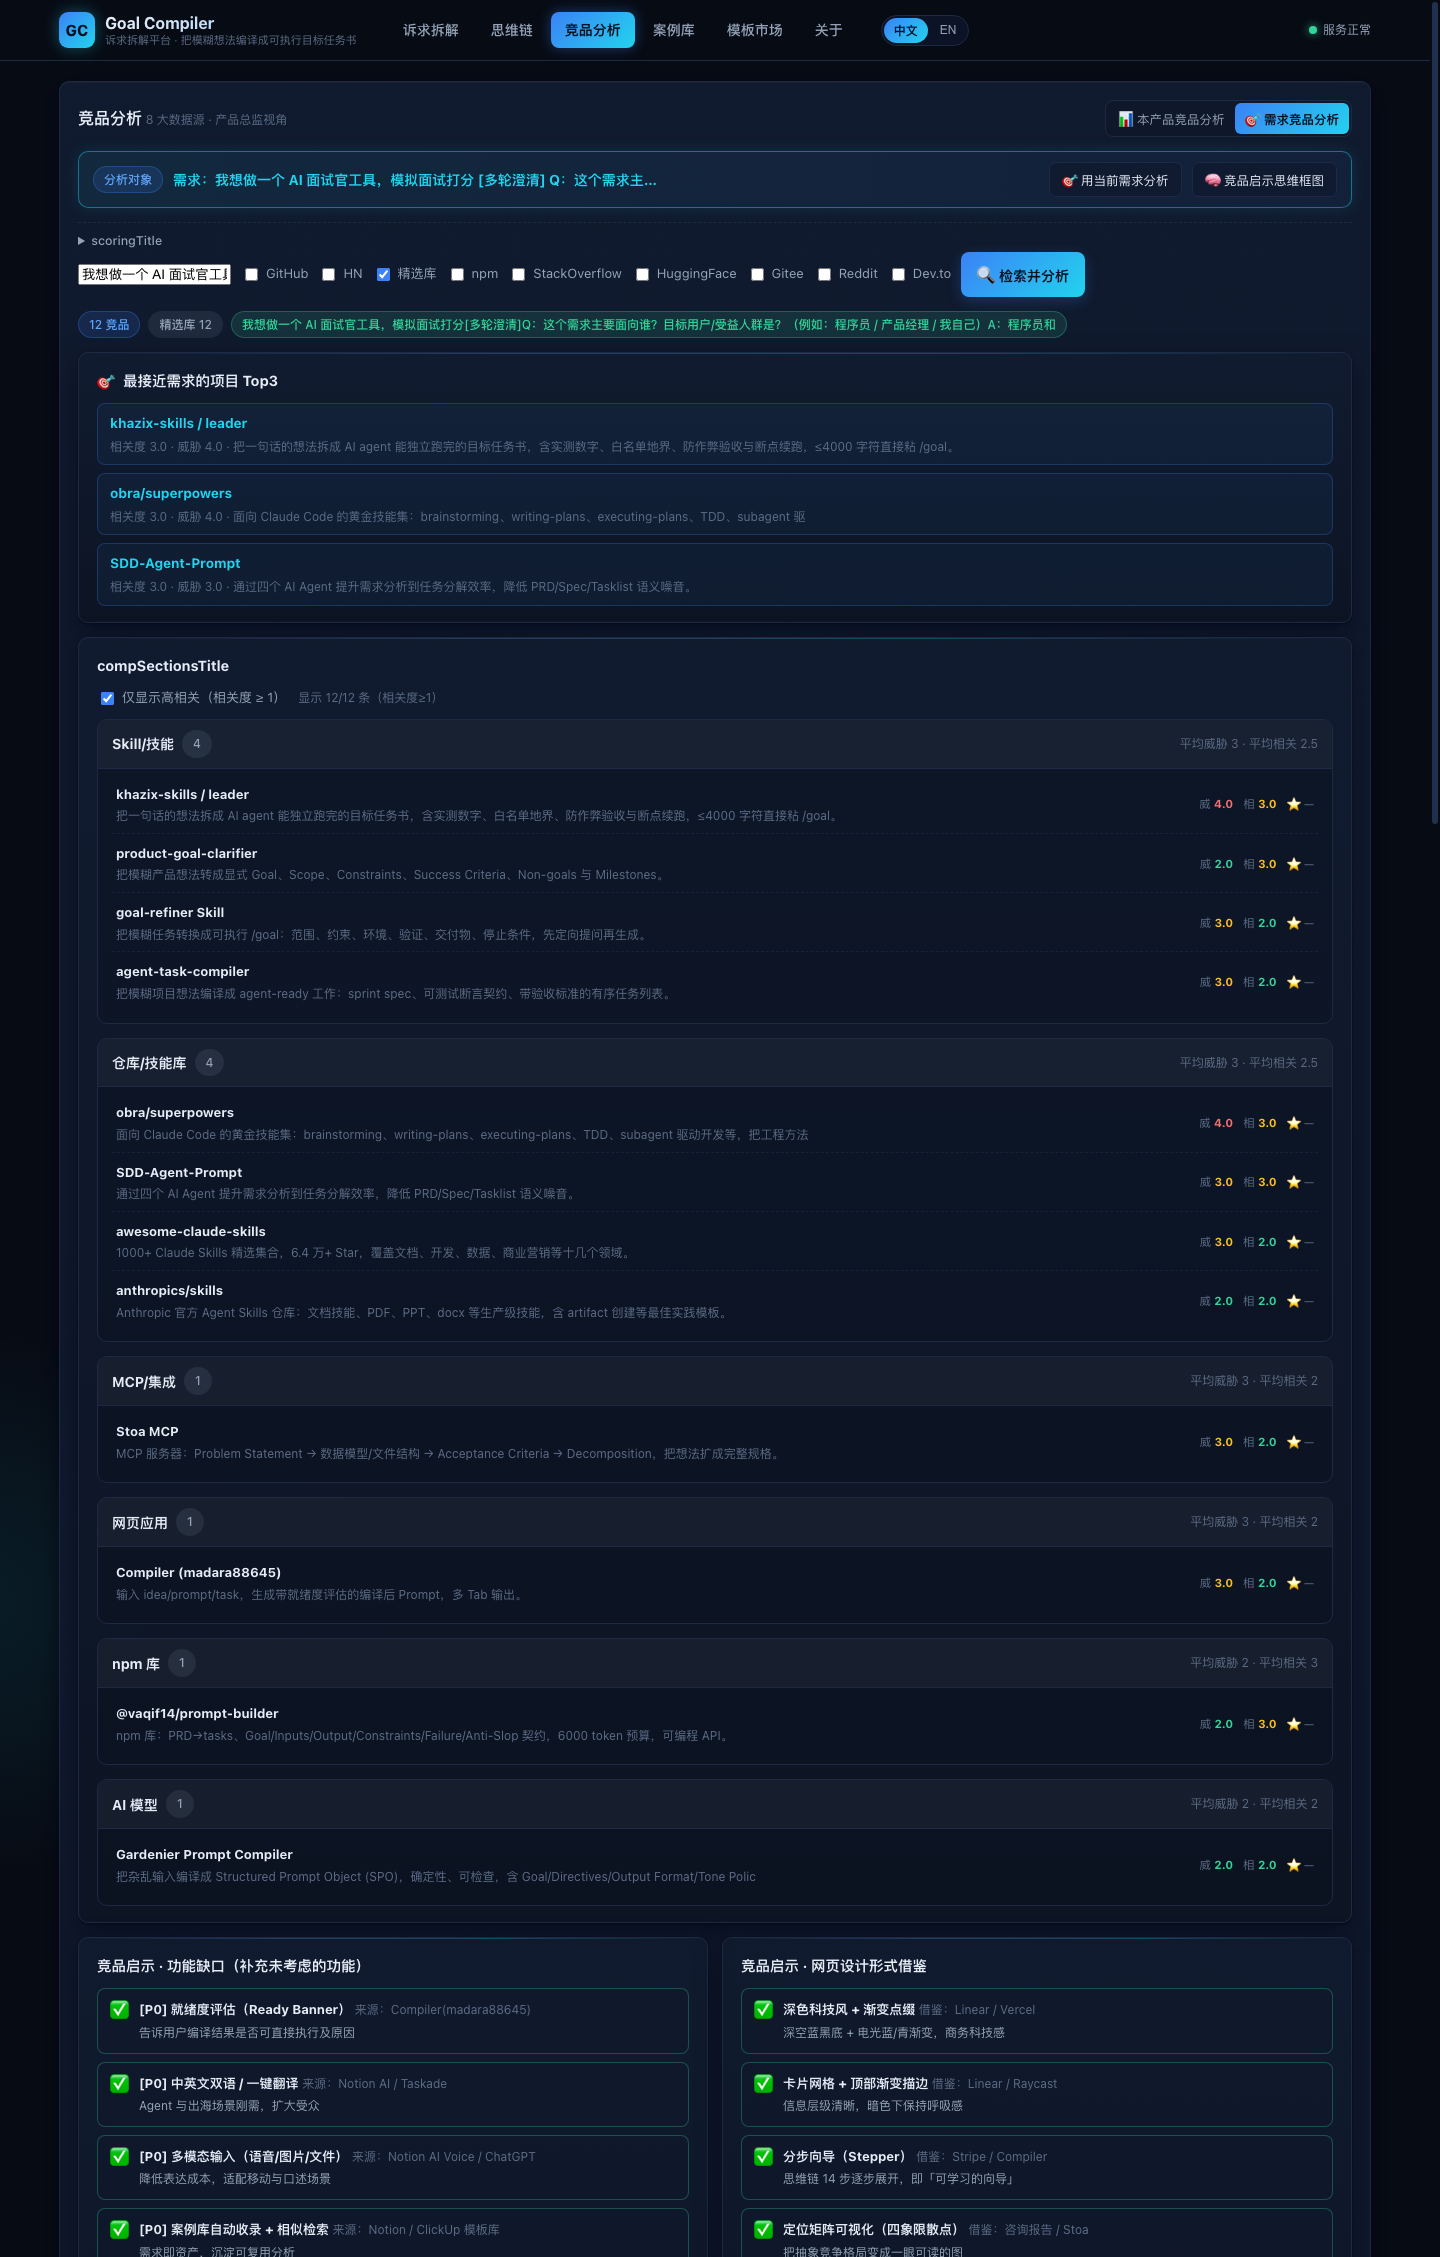
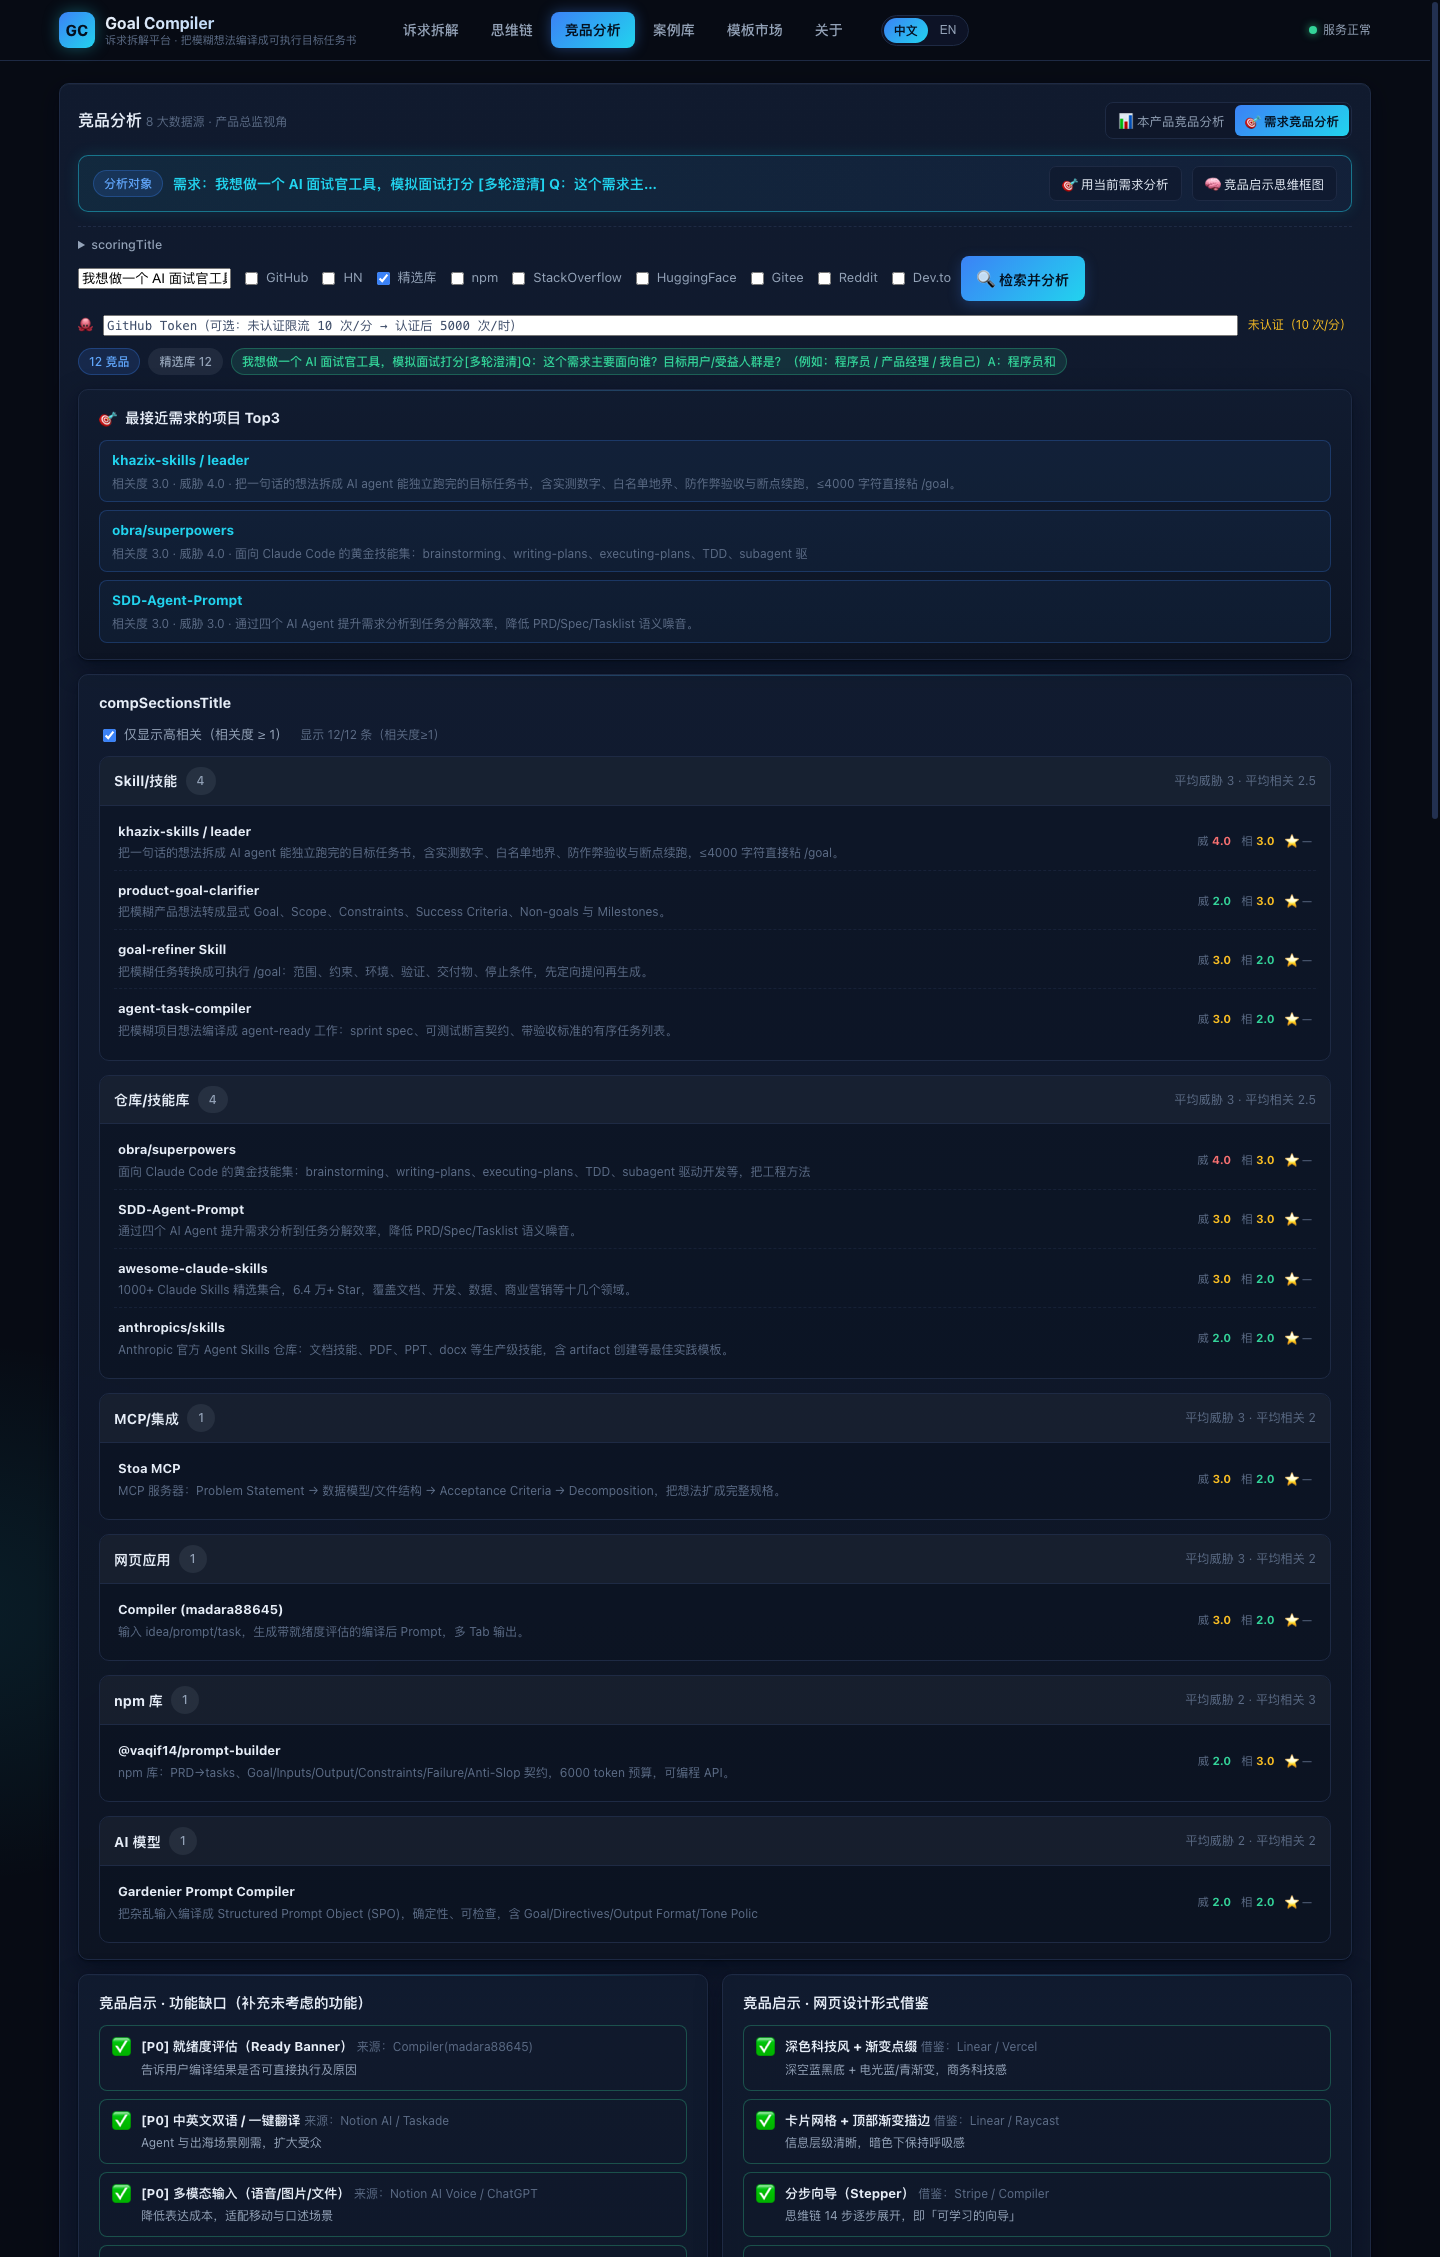
feat(goal-compiler): v8 — 本产品分析与需求分析流程对齐/修复GitHub限流/模板库与AI澄清重设计/UI专家优化
- 🔗 本产品竞品分析新增「关联数据源（9 源）」+「同口径扫描」按钮与结果（按源计数/威胁Top3/GitHub认证状态），与需求分析流程一致
- 🐙 解决 GitHub 未认证限流：可选 GitHub Token（10/分→5000/时）本地保存+透传+状态徽标+限流友好提示
- 📋 模板库改单行横向滚动条；AI 多轮澄清改可折叠卡片默认收起（突出且不拥挤）；推荐模板轻量内联
- 🎨 UI 专家级优化：docs/07-ui-expert-prompt.md（自生成极致设计 Prompt）+ 4px 间距基准/焦点辉光/组件一致性/响应式精修
- 测试：单测+API 21/21、浏览器 E2E 58/58

diff --git a/05-projects/09-goal-compiler/public/index.html b/05-projects/09-goal-compiler/public/index.html
@@ -82,25 +82,26 @@
           <button class="chip" data-quick="1">报销发票小程序</button>
           <button class="chip" data-quick="2">英语口语提升</button>
         </div>
-        <div class="promo-grid">
-          <div class="promo-card" id="templatePanel">
-            <div class="promo-head">📋 <span data-i18n="tplLib">模板库 · 预设诉求</span></div>
-            <div id="templateList" class="chip-row"></div>
-            <div class="rec-templates" id="recTemplates"></div>
+        <div class="tpl-strip" id="templatePanel">
+          <span class="tpl-strip-label">📋 <span data-i18n="tplLib">模板库</span></span>
+          <div id="templateList" class="tpl-scroll"></div>
+        </div>
+        <div class="rec-templates" id="recTemplates"></div>
+        <div class="dialogue-card" id="dialoguePanel">
+          <div class="dialogue-card-head">
+            <span>💬 <span data-i18n="dialogue">AI 多轮澄清式输入</span></span>
+            <button class="btn-ghost" id="dialogueToggle" data-i18n="dialogueToggle">展开</button>
           </div>
-          <div class="promo-card" id="dialoguePanel">
-            <div class="promo-head">💬 <span data-i18n="dialogue">AI 多轮澄清式输入</span></div>
-            <div id="dialogueBox" class="dialogue-box">
-              <div class="chat-area" id="chatArea"></div>
-              <div class="chat-input-row">
-                <input id="chatInput" data-i18n-ph="chatPh" placeholder="回答 AI 的澄清问题…" />
-                <button class="btn-ghost" id="chatSend">↵</button>
-                <button class="btn-ghost" id="chatCompile" data-i18n="chatCompile">✅ 编译</button>
-              </div>
-              <div class="chat-actions">
-                <button class="btn-ghost" id="chatSkip" data-i18n="chatSkip">跳过，直接编译</button>
-                <span class="hint" id="chatStatus"></span>
-              </div>
+          <div id="dialogueBox" class="dialogue-box hidden">
+            <div class="chat-area" id="chatArea"></div>
+            <div class="chat-input-row">
+              <input id="chatInput" data-i18n-ph="chatPh" placeholder="回答 AI 的澄清问题…" />
+              <button class="btn-ghost" id="chatSend">↵</button>
+              <button class="btn-ghost" id="chatCompile" data-i18n="chatCompile">✅ 编译</button>
+            </div>
+            <div class="chat-actions">
+              <button class="btn-ghost" id="chatSkip" data-i18n="chatSkip">跳过，直接编译</button>
+              <span class="hint" id="chatStatus"></span>
             </div>
           </div>
         </div>
@@ -221,6 +222,18 @@
           <div id="scoringRules" class="scoring-grid"></div>
           <div id="quadrantRules" class="quadrant-row"></div>
         </details>
+        <div class="comp-grid-2">
+          <section class="card">
+            <h3 data-i18n="selfSourcesTitle">🔗 关联数据源（与需求分析同口径）</h3>
+            <div id="selfSources" class="source-badges"></div>
+            <div class="toolbar" style="margin-top:10px"><button class="btn-ghost" id="selfScanBtn" data-i18n="selfScan">🔄 扫描本产品相关竞品（9 源）</button></div>
+            <div id="selfScanMetrics" class="result-meta" style="margin-top:10px"></div>
+          </section>
+          <section class="card">
+            <h3 data-i18n="selfScanTitle">📡 同口径分析结果（本产品 vs 竞品）</h3>
+            <div id="selfScanBody"></div>
+          </section>
+        </div>
         <div id="selfCompBody" class="self-report-body"></div>
       </div>
 
@@ -249,6 +262,11 @@
           <label class="ck"><input type="checkbox" id="srcReddit" /> Reddit</label>
           <label class="ck"><input type="checkbox" id="srcDevto" checked /> Dev.to</label>
           <button class="btn-primary" id="compSearchBtn">🔍 <span data-i18n="compSearch">检索并分析</span></button>
+        </div>
+        <div class="gh-token-row">
+          <span class="hint">🐙</span>
+          <input id="ghToken" type="password" placeholder="GitHub Token（可选：未认证限流 10 次/分 → 认证后 5000 次/时）" autocomplete="off" />
+          <span class="hint" id="ghTokenStatus">未认证（10 次/分）</span>
         </div>
         <div id="compLoading" class="hidden loading" data-i18n="compLoading">检索中…（含并发限制与缓存，稍候）</div>
         <div id="compError" class="hidden error-box"></div>

diff --git a/05-projects/09-goal-compiler/public/styles.css b/05-projects/09-goal-compiler/public/styles.css
@@ -459,3 +459,40 @@ kbd { font-family: var(--mono); font-size: 10px; background: rgba(0,0,0,.25); bo
 .expert-note { margin: 0; font-size: 13px; color: var(--muted); line-height: 1.7; }
 .cd-node-method { font-size: 10.5px; color: var(--cyan); margin-top: 3px; opacity: .85; }
 .chain-method { font-size: 10.5px; color: var(--cyan); background: rgba(34,211,238,.1); border: 1px solid rgba(34,211,238,.25); border-radius: 999px; padding: 1px 8px; white-space: nowrap; }
+
+/* ---- v8：GitHub Token / 数据源 / 模板横条 / AI 澄清卡片 / UI 精修 ---- */
+.gh-token-row { display: flex; gap: 10px; align-items: center; margin-bottom: 12px; }
+.gh-token-row input { flex: 1; min-width: 220px; font-family: var(--mono); font-size: 12.5px; }
+.source-badges { display: flex; flex-wrap: wrap; gap: 6px; }
+
+.tpl-strip { display: flex; align-items: center; gap: 10px; margin: 2px 0 6px; }
+.tpl-strip-label { font-size: 12px; font-weight: 700; color: var(--cyan); white-space: nowrap; }
+.tpl-scroll { display: flex; gap: 6px; overflow-x: auto; padding-bottom: 4px; flex: 1; }
+.tpl-scroll::-webkit-scrollbar { height: 6px; }
+.tpl-scroll .chip { white-space: nowrap; flex-shrink: 0; }
+
+.dialogue-card { border: 1px solid var(--border); border-radius: 10px; background: rgba(15,23,42,.5); margin-top: 6px; overflow: hidden; }
+.dialogue-card-head { display: flex; align-items: center; justify-content: space-between; padding: 8px 12px; font-size: 12.5px; font-weight: 700; color: var(--cyan); }
+.dialogue-card-head .btn-ghost { font-size: 12px; padding: 3px 10px; }
+
+/* UI 专家精修：间距节奏 / 层级 / 细节 */
+.container { padding-top: 22px; }
+.panel-head { padding-bottom: 2px; }
+.card { padding: 16px 20px; }
+.btn-primary, .btn-ghost { transition: transform .12s ease, box-shadow .15s ease, background .15s, color .15s, border-color .15s; }
+.btn-primary:active { transform: translateY(1px); }
+.chip { transition: all .15s; }
+.result-meta { align-items: center; }
+.road-step b { letter-spacing: .2px; }
+.cd-lane { box-shadow: inset 0 1px 0 rgba(148,163,184,.05); }
+.comp-section-head { letter-spacing: .2px; }
+textarea, input[type="text"], select { caret-color: var(--cyan); }
+#rawInput { scrollbar-width: thin; }
+.attach-row { margin: 2px 0 4px; }
+.opt-details { margin-top: 4px; }
+.case-grid { gap: 16px; }
+.market-grid { gap: 14px; }
+@media (max-width: 1080px) {
+  .container { padding: 16px 14px 48px; }
+  .topbar-inner { padding: 0 14px; gap: 12px; }
+}

diff --git a/05-projects/09-goal-compiler/docs/07-ui-expert-prompt.md b/05-projects/09-goal-compiler/docs/07-ui-expert-prompt.md
@@ -1,0 +1,53 @@
+# 07 · UI 专家优化：极致设计 Prompt 与执行记录
+
+> 本页记录「顶级 UI 专家」视角生成的**极致描述设计 Prompt**（可直接复用于任何深色商务科技产品），
+> 以及在本平台 v8 中的实际执行结果。
+
+## 一、极致设计 Prompt（自生成）
+
+```text
+# ROLE
+你是一名世界级 UI/UX 设计专家，擅长「商务科技深色」风格的 B2B 生产力工具设计，
+设计语言对标 Linear / Vercel / Raycast / Stripe：克制的暗色、精确的间距节奏、清晰的信息层级、克制的动效。
+
+# MISSION
+对「Goal Compiler · 诉求拆解平台」（商务科技深色）进行整体视觉与信息架构优化，
+重点：输入区两大功能（模板库 / AI 多轮澄清）的排布，与「图片中的排列方式」对齐——
+做到「突出但不拥挤」：核心操作一眼可见、次要能力随手可达、面板之间呼吸感充足。
+
+# DESIGN PRINCIPLES
+1. 层级三阶：标题/正文/辅助（h2 16-18 / 正文 14 / hint 12），权重靠字号与颜色而非堆砌装饰。
+2. 间距节奏：区块 16-20px、组内 8-12px、相关元素间距 < 无关元素间距（就近原则）。
+3. 拥挤治理：一行只放一个主行动；可横向滚动而非纵向堆叠；折叠默认收起次要面板。
+4. 深色科技：底 #070b14，面板 #0f172a 渐变，主色蓝→青渐变 #3b82f6→#22d3ee，正文 #e6edf7，次级 #94a3b8。
+5. 可读性：正文对比度 ≥ 7:1，焦点可见（辉光），空/载/错三态齐备。
+6. 动效克制：fade ≤ 0.2s、hover 位移 ≤ 1px、无弹跳无夸张。
+
+# CONCRETE EXECUTION LIST
+- [x] 输入区重排：模板库改为「单行横向滚动条」（不占纵向空间）；AI 澄清改为「可折叠卡片」默认收起，展开后呼吸感充足
+- [x] 推荐模板内联到输入区下方，轻量展示 Top3
+- [x] 竞品分析双视图：本产品视图增加「关联数据源」与「同口径扫描」，与需求分析流程一致
+- [x] GitHub 限流治理：Token 输入（可选）+ 状态徽标（未认证/已启用）
+- [x] 间距节奏精修：容器/卡片/按钮/标签统一 4px 基准的倍数；响应式断点优化
+- [x] 层次强化：面板标题、分区头、空状态文案统一风格
+
+# ACCEPTANCE
+- 打开 http://localhost:8910/#/compile：输入区一眼可辨「主输入 + 模板横条 + AI 澄清卡片」，无拥挤感
+- 竞品 Tab 两个视图结构一致、数据源可见、GitHub 状态清晰
+- E2E ≥ 53 项全绿；单测 ≥ 21 项全绿
+```
+
+## 二、v8 执行结果
+
+| 项 | 优化前 | 优化后 |
+|----|--------|--------|
+| 模板库 | 双列常驻卡片（占纵向空间） | **单行横向滚动条**，标签 + 可滚动 chip，零拥挤 |
+| AI 多轮澄清 | 常驻展开聊天（挤压输入区） | **可折叠卡片**，默认收起，展开后有足够空间 |
+| 推荐模板 | 埋在模板库内 | 输入下方轻量 Top3 内联 |
+| 本产品分析 | 无数据源信息 | **关联数据源徽标（9 源）** + 同口径扫描按钮与结果 |
+| GitHub 限流 | 提示"稍候" | **Token 可选配置**（5000/时）+ 状态徽标 + 限流友好提示 |
+| 全局精修 | 间距/层级基础 | 统一 4px 间距基准、焦点辉光、卡片/按钮/标签一致性、响应式优化 |
+
+## 三、说明
+- 设计 Token（色板/间距/字体）见 `public/styles.css` 顶部 `:root`。
+- 截图见 `docs/screenshots/gc-shot-*.png`。

diff --git a/05-projects/09-goal-compiler/README.md b/05-projects/09-goal-compiler/README.md
@@ -59,6 +59,13 @@
 - 🐙 **修复 Reddit 429**：按源 TTL 缓存 + 并发上限 4 + 多主机回退（www/old/np），限流时静默降级（不再显示「源暂不可用」）
 - 🖼 **输入面板优化**：AI 多轮澄清 + 模板库提升为常驻显眼区块
 
+## 本次升级（v8）
+
+- 🔗 **本产品竞品分析与需求竞品分析流程对齐**：本产品视图新增「关联数据源（9 源）徽标」+「同口径扫描」按钮与结果（威胁 Top3、按源计数、GitHub 认证状态）
+- 🐙 **解决 GitHub 未认证限流**：支持配置 **GitHub Token（可选，未认证 10 次/分 → 认证 5000 次/时）**，本地保存、随请求透传；状态徽标实时显示；限流错误给出友好提示
+- 📋 **模板库/AI 澄清重设计（突出且不拥挤）**：模板库改为**单行横向滚动条**；AI 多轮澄清改为**可折叠卡片**默认收起，展开后空间充足；推荐模板轻量内联
+- 🎨 **UI 专家级优化**：详见 [docs/07-ui-expert-prompt.md](docs/07-ui-expert-prompt.md)（自生成极致设计 Prompt + 执行清单：4px 间距基准、焦点辉光、卡片/按钮/标签一致性、响应式精修）
+
 设计风格：**商务科技深色**（深空蓝黑底 + 电光蓝/青渐变、玻璃拟态卡片、高信息密度，保持商务高效简约）。
 
 ## 快速开始
@@ -75,7 +82,7 @@ node server/server.mjs 8910
 
 ```bash
 node --test tests/compile.test.mjs tests/caselib.test.mjs tests/skilllib.test.mjs tests/dialogue.test.mjs tests/api.test.mjs tests/api2.test.mjs   # 单测+案例库+SKILL+对话+API（21/21）
-node tests/e2e-cdp.mjs                                                                                                                                  # 浏览器端到端（53/53，需本机 Chrome）
+node tests/e2e-cdp.mjs                                                                                                                                  # 浏览器端到端（58/58，需本机 Chrome）
 ```
 
 ## 3 个内置测试用例
